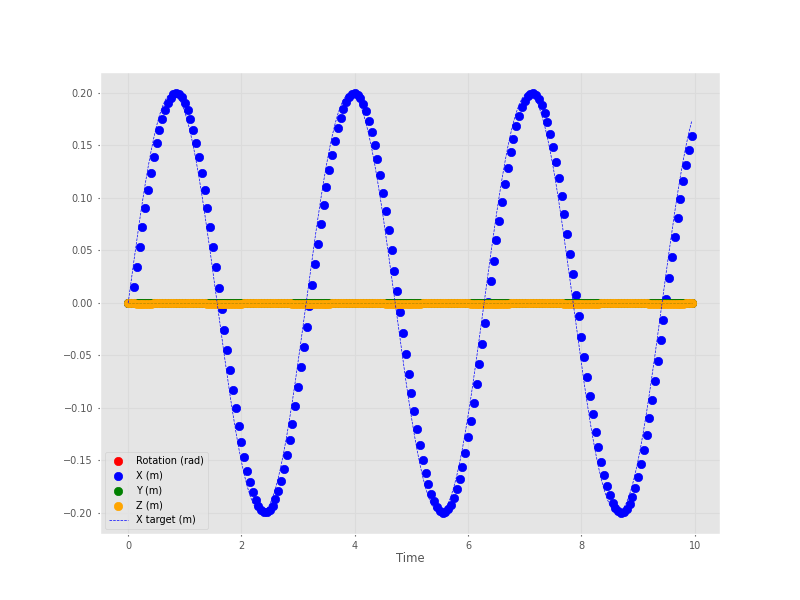
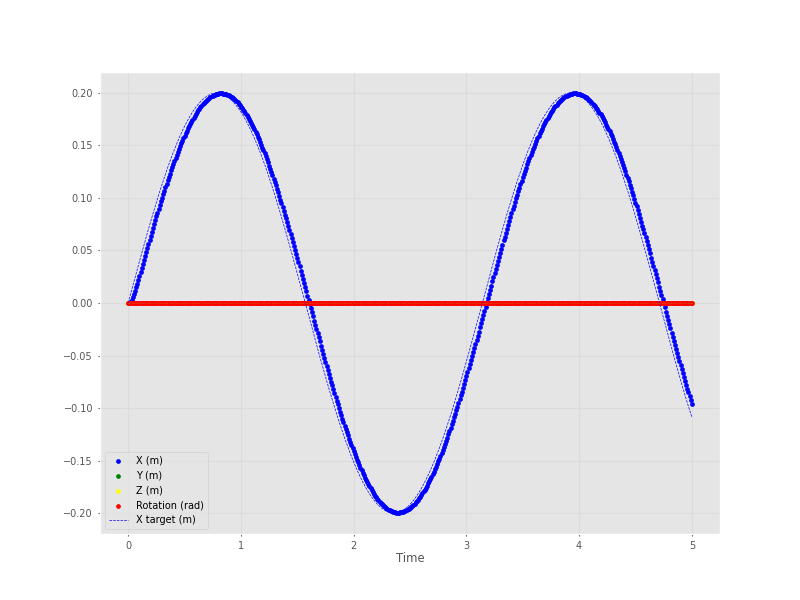
Changes to be committed: 	modified:   README.md 	modified:   images/follow_sin.png 	new file:   images/follow_square.png 	modified:   simulation_LMPC_plot.py
Changes not staged for commit:
	modified:   README.md
	modified:   simulation_LMPC_plot.py

diff --git a/simulation_LMPC_plot.py b/simulation_LMPC_plot.py
@@ -7,6 +7,7 @@ import spatialgeometry as sg
 from MPC.LMPC_solver import LinearMPCController
 import matplotlib.pyplot as plt
 from scipy.spatial.transform import Rotation as R
+from scipy.signal import square
 
 # Init env
 env = swift.Swift()
@@ -14,7 +15,7 @@ env.launch(realtime=True)
 panda = rtb.models.Panda()
 panda.q = panda.qr
 env.add(panda)
-dt = 0.05
+dt = 0.01
 
 # Init desired position
 T_ini = panda.fkine(panda.q)
@@ -39,9 +40,10 @@ t_target_x, t_target_y, t_target_z = [], [], []
 times = []
 
 # Loop
-while env.sim_time < 10:
+while env.sim_time < 5:
     #Compute desired velocity from simple prop controller
     T_des.t[0] = T_ini.t[0] + 0.2 * np.sin(env.sim_time * 2)
+    T_des.t[0] = T_ini.t[0] + square(env.sim_time * 2) * 0.2
     target.T = T_des
     T_current = panda.fkine(panda.q)
     Uopt, Xopt, poses = lmpc_solver.solve(T_current, T_des)
@@ -72,22 +74,22 @@ while env.sim_time < 10:
     #Simulate
     env.step(dt)
     
-
+env.close()
 # Set up dynamic plot
 fig, ax = plt.subplots(figsize=(8,6))
 ax.set_xlabel("Time")
 ax.grid(True)
 
 # Append to lists
-ax.scatter(times, thetas, color='red', label='Rotation (rad)')
-ax.scatter(times, t_x, color='blue', label='X (m)')
-ax.scatter(times, t_y, color='green', label='Y (m)')
-ax.scatter(times, t_z, color='orange', label='Z (m)')
+ax.scatter(times, t_x, color='blue', label='X (m)', s=8)
+ax.scatter(times, t_y, color='green', label='Y (m)', s=8)
+ax.scatter(times, t_z, color='yellow', label='Z (m)', s=8)
+ax.scatter(times, thetas, color='red', label='Rotation (rad)', s=8)
 
-ax.plot(times, thetas_target, 'r--')
-ax.plot(times, t_target_x, 'b--', label = 'X target (m)')
-ax.plot(times, t_target_y, 'g--')
-ax.plot(times, t_target_z, 'orange')
+ax.plot(times, t_target_x, 'b--', label = 'X target (m)', markersize=4)
+ax.plot(times, t_target_y, 'g--', markersize=4)
+ax.plot(times, t_target_z, 'y--', markersize=4)
+ax.plot(times, thetas_target, 'r--', markersize=4)
 ax.legend()
 
 plt.show()

diff --git a/README.md b/README.md
@@ -102,6 +102,11 @@ pip install mediapipe opencv-python
 ### 🔹Plot with X sin desired target trajectory
 <img src="images/follow_sin.png" width="600" alt="Plot sin trajectory with LMPC">
 
+---
+
+### 🔹Plot with X square desired target trajectory
+<img src="images/follow_square.png" width="600" alt="Plot square trajectory with LMPC">
+
 </div>
 
 ---
